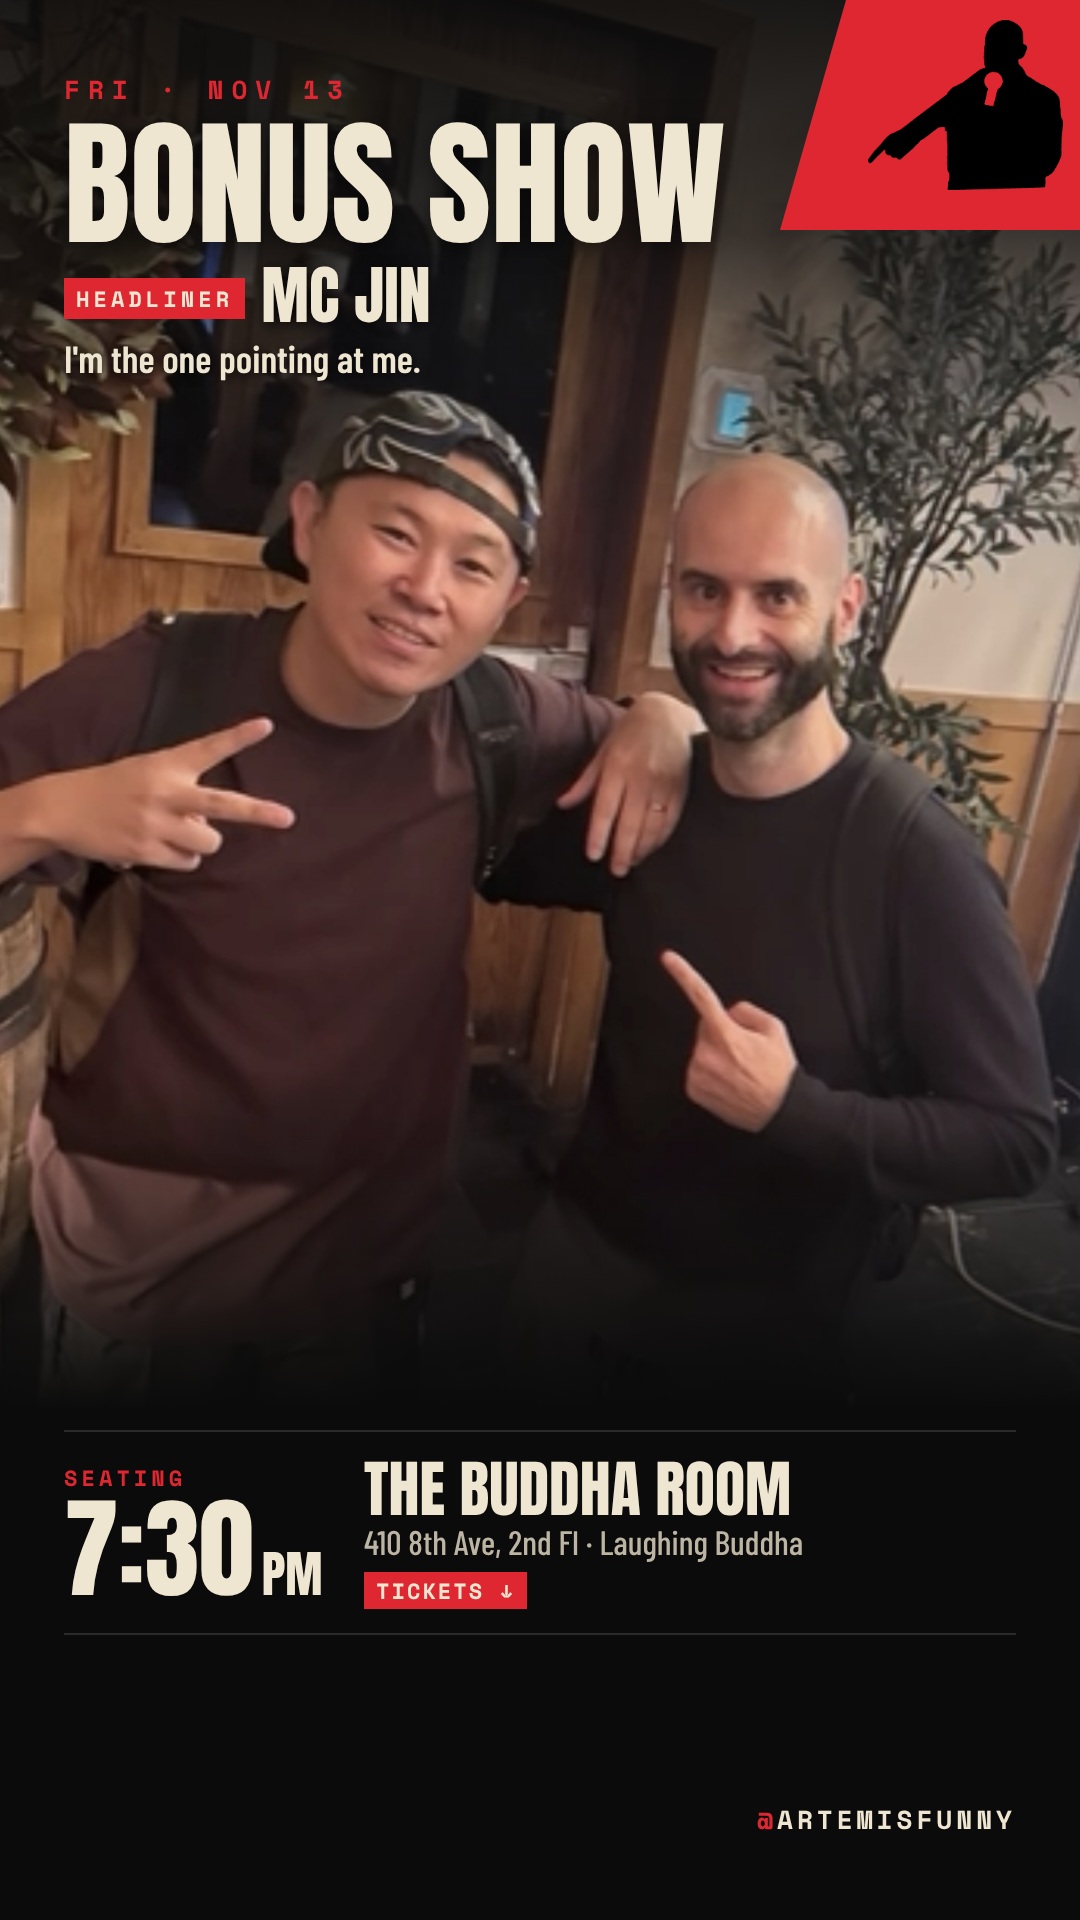
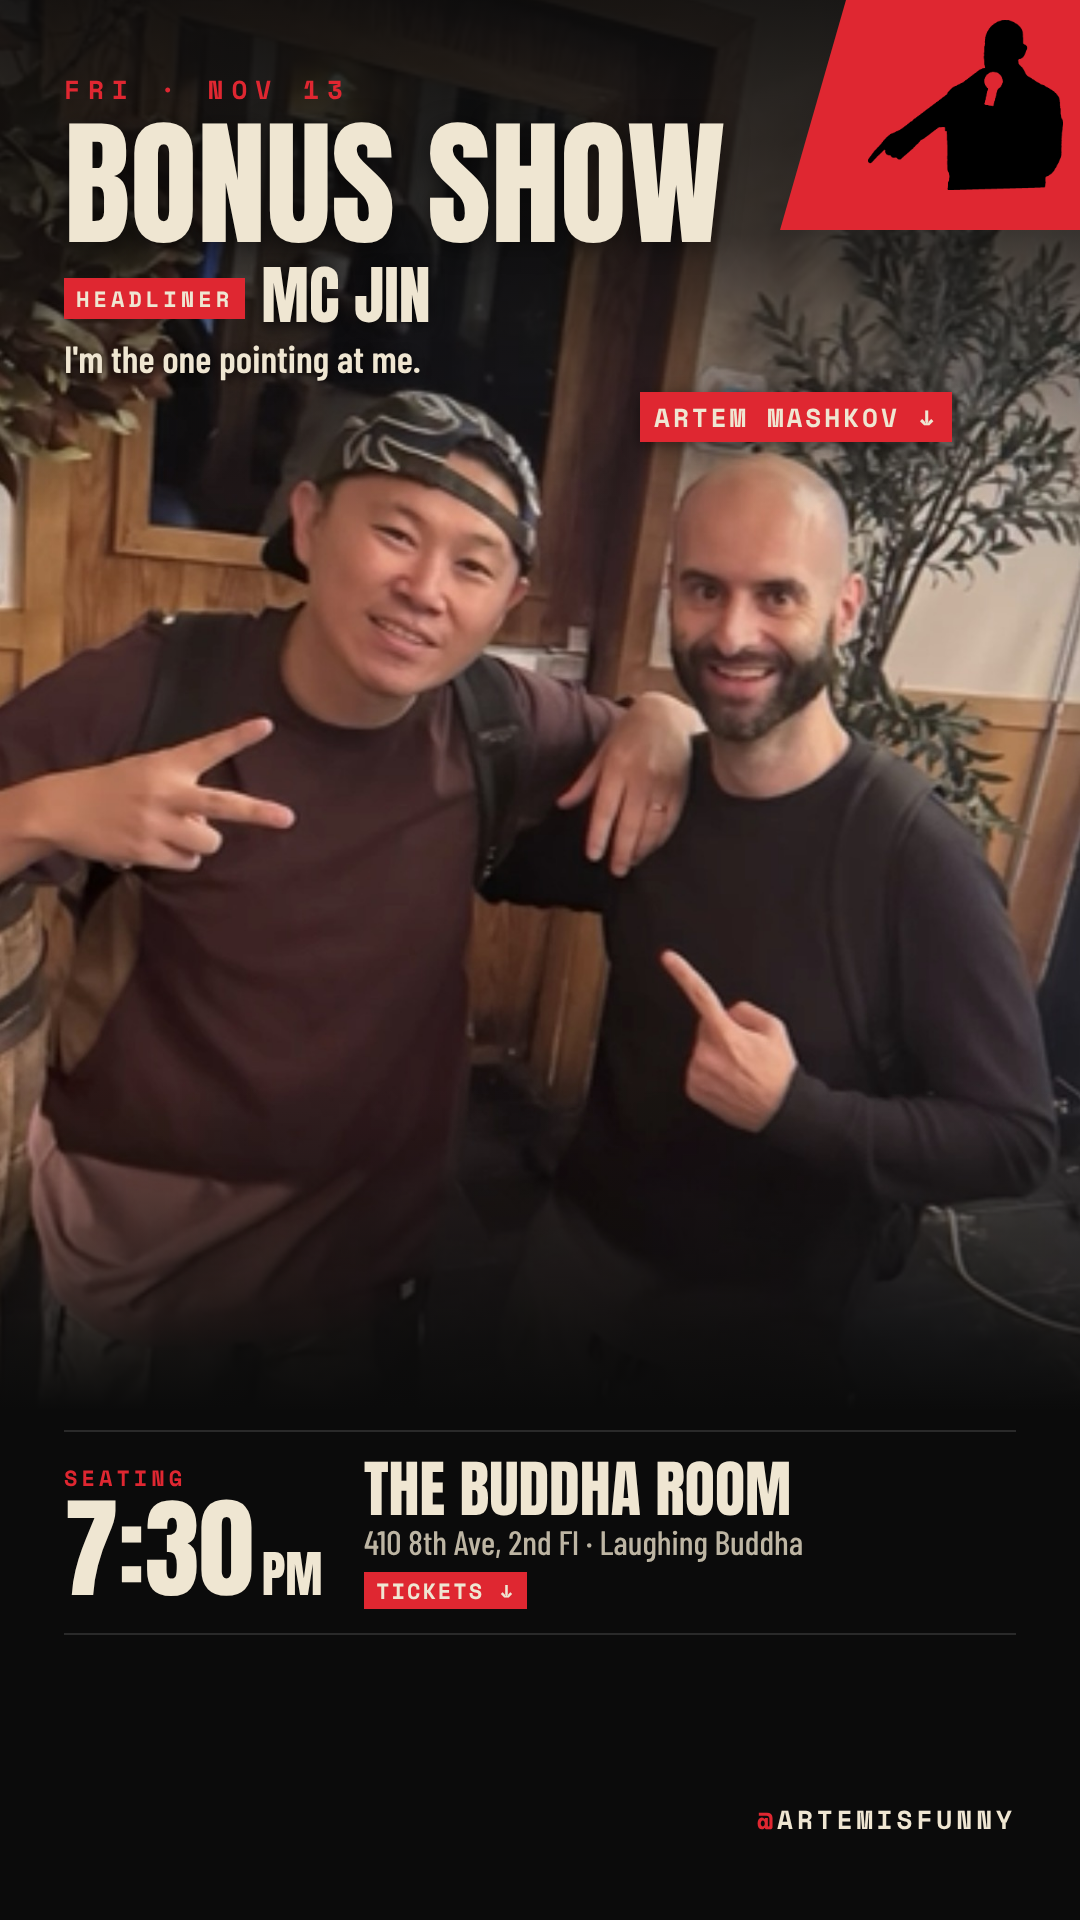
Nov 13 story: name tag over Artem (right)
Claude-Session: https://claude.ai/code/session_01EF93tcjRzppxEkwv1MrPtV

Changed region(s): [[0.5806, 0.1875, 0.8861, 0.25]]

diff --git a/nov-13-buddha/build.py b/nov-13-buddha/build.py
@@ -41,6 +41,8 @@ html, body {{ background:{BG}; color:{CREAM}; overflow:hidden; }}
            color:{CREAM}; padding:4px 12px; margin-right:16px; vertical-align:middle; text-shadow:none; }}
 .sub {{ font-family:'Barlow Condensed'; font-weight:600; font-size:38px; color:{CREAM}; margin-top:8px;
        text-shadow:0 2px 12px rgba(0,0,0,.8); }}
+.me {{ position:absolute; left:640px; top:392px; font-family:'Space Mono'; font-weight:700; font-size:26px;
+       letter-spacing:3px; background:{RED}; color:{CREAM}; padding:6px 14px; box-shadow:0 4px 16px rgba(0,0,0,.5); }}
 .info {{ position:absolute; left:64px; right:64px; top:1430px; }}
 .row {{ display:flex; align-items:center; border-top:2px solid #2a2a2a; border-bottom:2px solid #2a2a2a; padding:24px 0; }}
 .t {{ flex:0 0 300px; }}
@@ -62,6 +64,7 @@ def story():
 <div class="page">
   <img class="bg" src="{PHOTO}">
   <div class="shade-t"></div><div class="shade-b"></div>
+  <div class="me">ARTEM MASHKOV ↓</div>
   <div class="logo"><img src="{LOGO}"></div>
   <div class="top">
     <div class="kicker">FRI · NOV 13</div>
